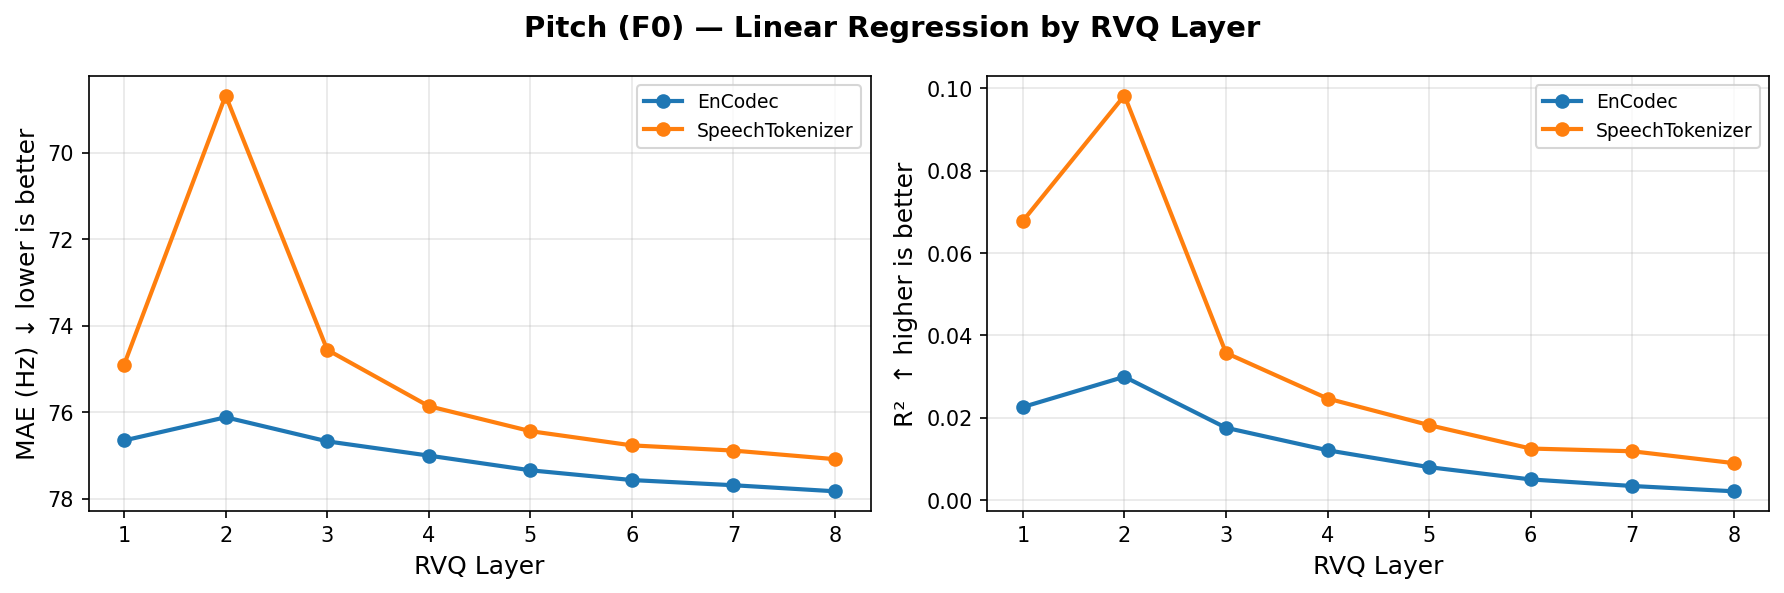
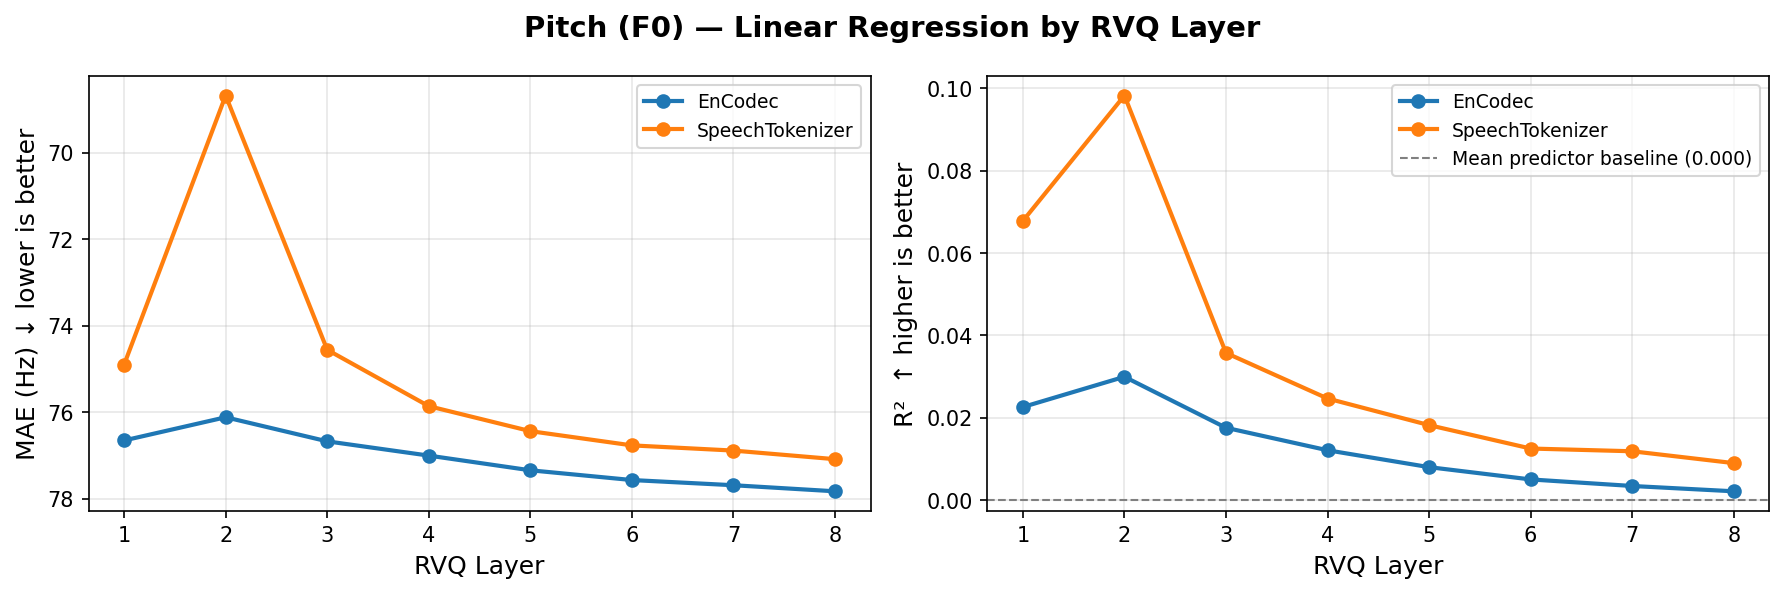
Add semantic baseline labeling and pitch R² baseline visualization

Changed region(s): [[0.7707, 0.2125, 0.9865, 0.3035], [0.7707, 0.1214, 0.9557, 0.1821]]

diff --git a/visualize/plot_curves.py b/visualize/plot_curves.py
@@ -33,17 +33,19 @@ def _plot_two_metrics(
     ylabel_b: str,
     title: str,
     output_path: str,
-    chance_a: Optional[float] = None,
-    chance_b: Optional[float] = None,
+    baseline_a: Optional[float] = None,
+    baseline_b: Optional[float] = None,
+    baseline_name_a: str = "Baseline",
+    baseline_name_b: str = "Baseline",
     invert_a: bool = False,
 ) -> None:
     """Render two metric subplots side-by-side for both codecs."""
     fig, axes = plt.subplots(1, 2, figsize=(12, 4))
     fig.suptitle(title, fontsize=14, fontweight="bold")
 
-    for ax, metric, ylabel, chance, invert in [
-        (axes[0], metric_a, ylabel_a, chance_a, invert_a),
-        (axes[1], metric_b, ylabel_b, chance_b, False),
+    for ax, metric, ylabel, baseline, baseline_name, invert in [
+        (axes[0], metric_a, ylabel_a, baseline_a, baseline_name_a, invert_a),
+        (axes[1], metric_b, ylabel_b, baseline_b, baseline_name_b, False),
     ]:
         for codec, codec_results in results.items():
             ax.plot(
@@ -56,14 +58,14 @@ def _plot_two_metrics(
                 markersize=6,
             )
 
-        # Dashed chance-level reference line
-        if chance is not None:
+        # Dashed baseline reference line
+        if baseline is not None:
             ax.axhline(
-                chance,
+                baseline,
                 color="gray",
                 linestyle="--",
                 linewidth=1,
-                label=f"Chance ({chance:.3f})",
+                label=f"{baseline_name} ({baseline:.3f})",
             )
 
         ax.set_xlabel("RVQ Layer", fontsize=12)
@@ -86,15 +88,17 @@ def plot_phoneme(
     output_dir: str,
     n_phonemes: int = 0,
 ) -> None:
-    chance = 1.0 / n_phonemes if n_phonemes > 0 else None
+    baseline = 1.0 / n_phonemes if n_phonemes > 0 else None
     _plot_two_metrics(
         results,
         metric_a="phoneme_acc", ylabel_a="Accuracy",
         metric_b="phoneme_f1",  ylabel_b="Macro-F1",
         title="Phoneme Identity — Linear Probe by RVQ Layer",
         output_path=str(Path(output_dir) / "phoneme_probing.png"),
-        chance_a=chance,
-        chance_b=chance,
+        baseline_a=baseline,
+        baseline_b=baseline,
+        baseline_name_a="Chance",
+        baseline_name_b="Chance",
     )
 
 
@@ -103,15 +107,17 @@ def plot_speaker(
     output_dir: str,
     n_speakers: int = 0,
 ) -> None:
-    chance = 1.0 / n_speakers if n_speakers > 0 else None
+    baseline = 1.0 / n_speakers if n_speakers > 0 else None
     _plot_two_metrics(
         results,
         metric_a="speaker_acc", ylabel_a="Accuracy",
         metric_b="speaker_f1",  ylabel_b="Macro-F1",
         title="Speaker Identity — Linear Probe by RVQ Layer",
         output_path=str(Path(output_dir) / "speaker_probing.png"),
-        chance_a=chance,
-        chance_b=chance,
+        baseline_a=baseline,
+        baseline_b=baseline,
+        baseline_name_a="Chance",
+        baseline_name_b="Chance",
     )
 
 
@@ -122,6 +128,9 @@ def plot_pitch(results: Dict[str, Dict], output_dir: str) -> None:
         metric_b="pitch_r2",  ylabel_b="R²  ↑ higher is better",
         title="Pitch (F0) — Linear Regression by RVQ Layer",
         output_path=str(Path(output_dir) / "pitch_probing.png"),
+        baseline_a=None,
+        baseline_b=0.0,
+        baseline_name_b="Mean predictor baseline",
         invert_a=True,
     )
 
